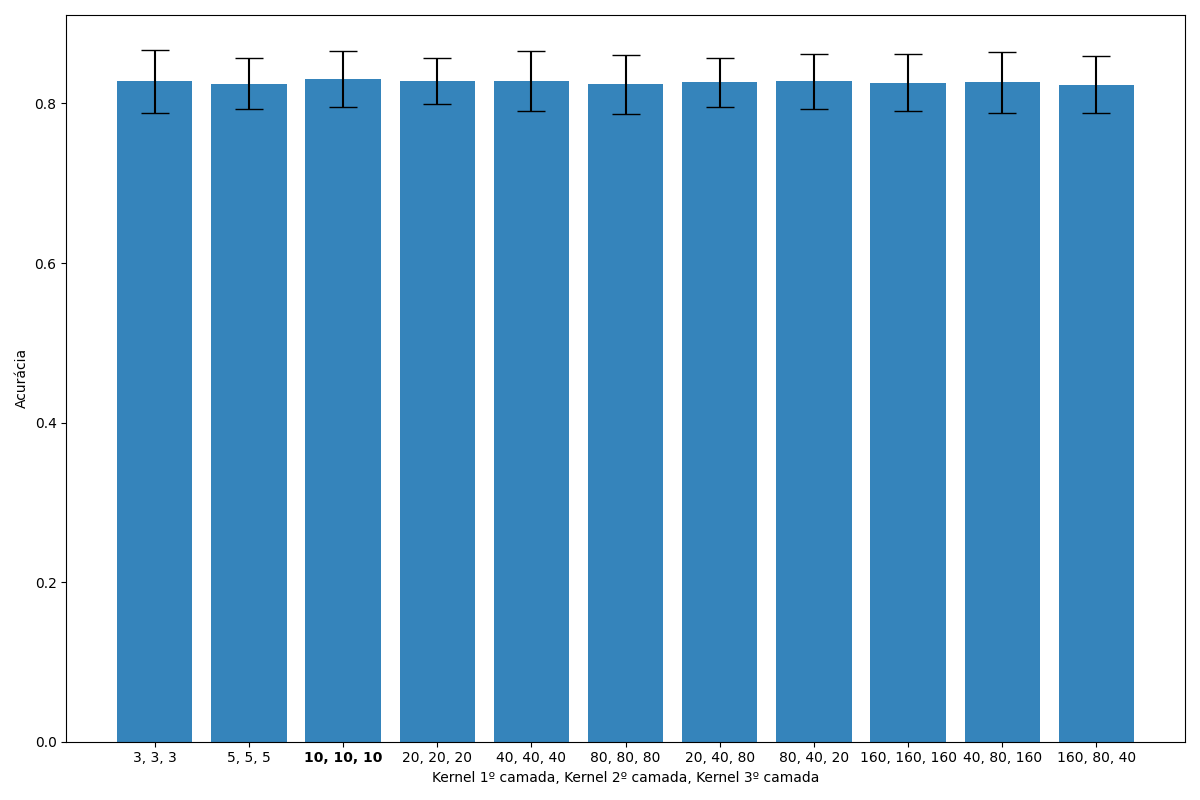
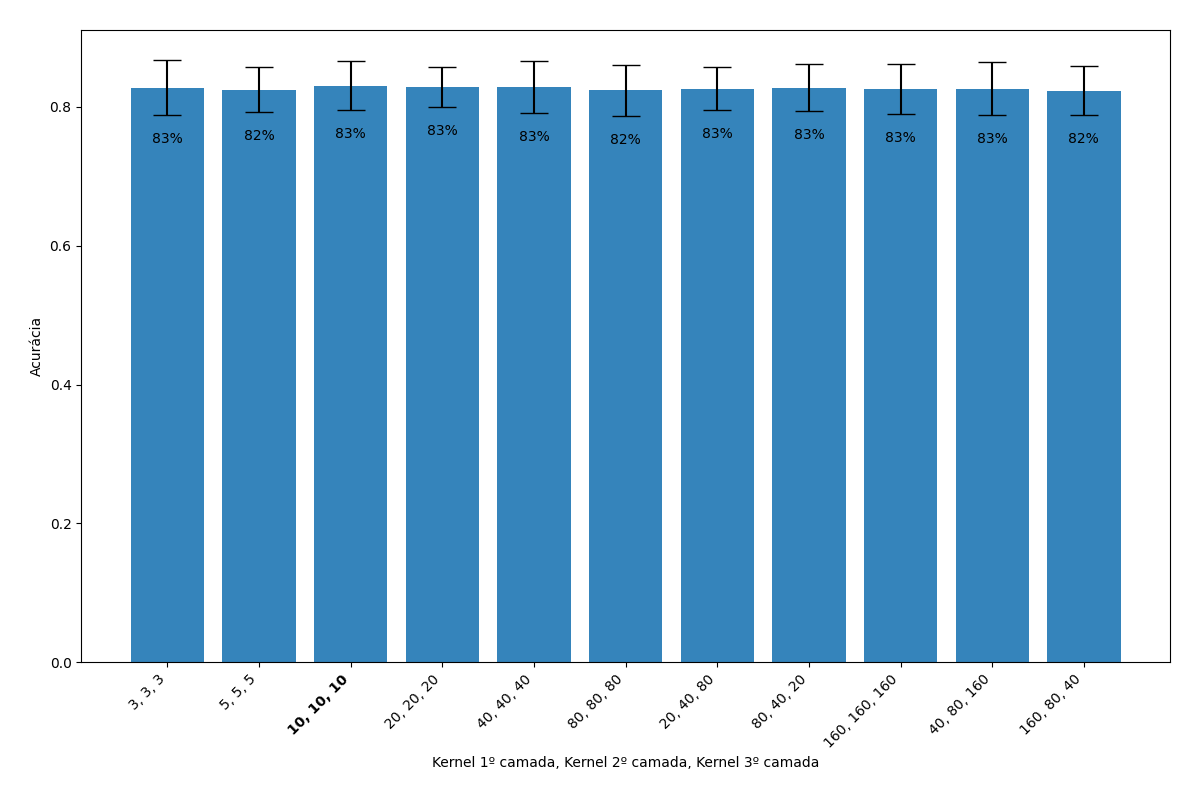
Added percentage labels to plots and regenerate all plots.

diff --git a/visualization/generate_error_bar_plot.py b/visualization/generate_error_bar_plot.py
@@ -7,26 +7,39 @@ import numpy as np
 from main import ROOT_DIR
 
 
-def plot(x_tick_labels, averages, standard_deviations, figure_file_name,
-         x_label="", y_label="Acurácia", title="",
-         fig_size=None, font_size=18, bold_max_value=True):
-    x = np.arange(len(x_tick_labels))
+def plot(x_ticks, averages, standard_deviations, figure_file_name,
+         x_label="", y_label="Acurácia", title="", x_ticks_rotation=None,
+         fig_size=None, font_size=20, bold_max_value=True):
+    x = np.arange(len(x_ticks))
 
     fig, ax = plt.subplots() if fig_size is None else plt.subplots(figsize=fig_size)
     ax.set_title(title)
     ax.bar(x, averages, yerr=standard_deviations, align="center", alpha=0.9, capsize=10)
 
     plt.xlabel(x_label)
-    plt.xticks(rotation=45, ha="right")
+    plt.ylabel(y_label)
+
+    if x_ticks_rotation is not None:
+        plt.xticks(rotation=x_ticks_rotation, ha="right")
     ax.set_xticks(x)
-    ax.set_xticklabels(x_tick_labels)
+    ax.set_xticklabels(x_ticks)
+
     if bold_max_value:
         tick_max_value = ax.xaxis.get_major_ticks()[np.argmax(averages)]
         tick_max_value.label1.set_fontweight("bold")
-    plt.ylabel(y_label)
+
+    for p_idx, p in enumerate(ax.patches):
+        width = p.get_width()
+        height = p.get_height()
+        x, y = p.get_xy()
+        margin = standard_deviations[p_idx] + 0.04
+        position = (x + width / 2, y + height - margin)
+        ax.annotate(f"{averages[p_idx]:.0%}", position, ha="center")
 
     if font_size is not None:
-        font = {"size": font_size}
+        font = {
+            "size": font_size
+        }
         rc("font", **font)
 
     plt.tight_layout()

diff --git a/visualization/generate_plot_conv1d_kernel_size_selection.py b/visualization/generate_plot_conv1d_kernel_size_selection.py
@@ -36,4 +36,5 @@ standard_deviations = [0.03954583526706644,
                        0.03525687402023222]
 
 plot(x_tick_labels, averages, standard_deviations, "results-conv1d-kernel-size-selection.png",
-     x_label="Kernel 1º camada, Kernel 2º camada, Kernel 3º camada", fig_size=(12, 8))
+     x_label="Kernel 1º camada, Kernel 2º camada, Kernel 3º camada",
+     x_ticks_rotation=45, fig_size=(12, 8))
